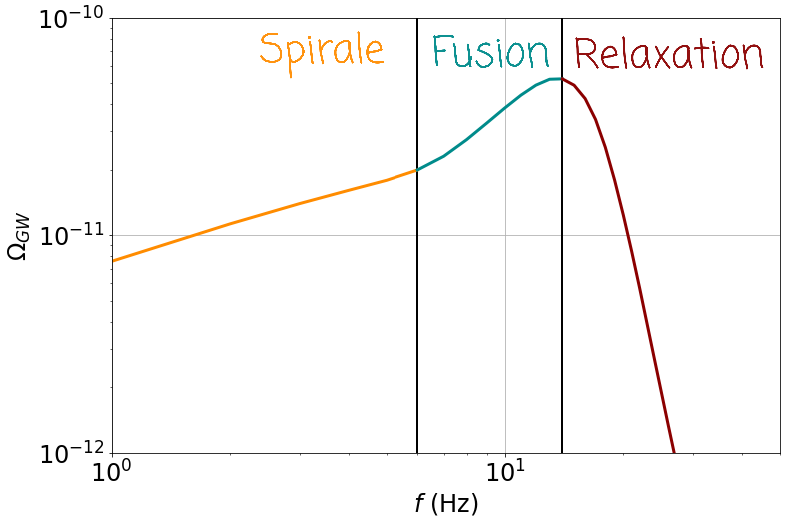
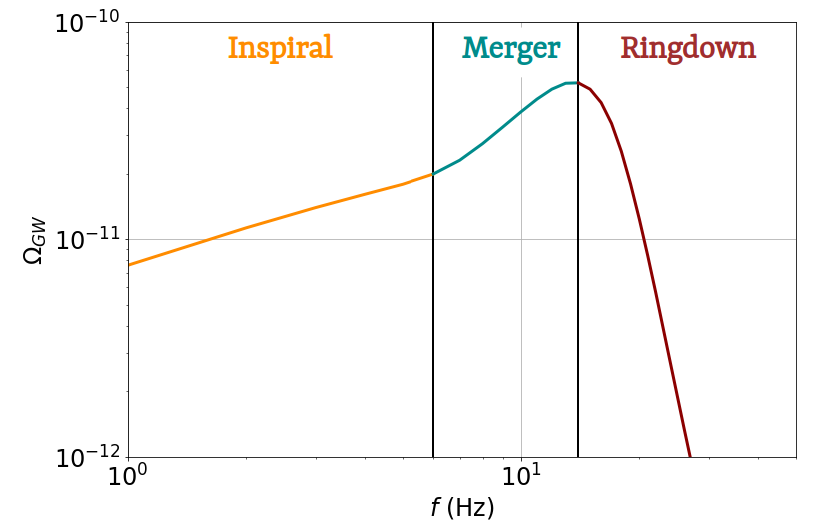
version 1

Changed region(s): [[0.0, 0.0, 1.0, 0.916], [0.5165, 0.9466, 0.6076, 0.9771], [0.6076, 0.2137, 0.638, 0.2443]]

diff --git a/_site/assets/js/lunr/lunr-store.js b/_site/assets/js/lunr/lunr-store.js
@@ -6,7 +6,7 @@ var store = [,{
     "excerpt":"This project investigates how black holes embedded in AGN disks can grow through repeated mergers, and how gas interactions — particularly gas hardening — can shape their properties. The study contrasts two models: one with gas hardening (GH), where the gas facilitates orbital decay of binaries, and one without it (no-GH), where mergers proceed solely due to gravitational wave (GW) emission.   Scientific Context: Black Hole Growth in AGN Disks   Supermassive black holes (SMBHs) at galactic centers are often surrounded by dense gaseous disks. These active galactic nuclei (AGN) can host populations of stellar-origin black holes that sink toward special regions known as migration traps. Within these traps, black holes can interact and merge, sometimes repeatedly, leading to hierarchical mergers that build up intermediate-mass black holes (IMBHs).   Key scientific goals of this work include:      Understanding the role of gas torques and orbital damping in black hole mergers.   Quantifying the impact of gas hardening on the mass and spin distribution of resulting binaries.   Comparing AGN-driven mergers with other formation channels (e.g., young star clusters, globular clusters, isolated binaries).     Gas Hardening vs. No Gas Hardening: Two Evolutionary Scenarios   Two physical models are considered:      Gas Hardening (GH): The gas surrounding binaries extracts angular momentum and energy, significantly speeding up the inspiral. This promotes multiple merger generations and efficient spin alignment.   No Gas Hardening: Mergers rely only on gravitational radiation. Fewer hierarchical events occur, and remnant spins remain isotropically distributed.     Comparing AGN Mergers to Other Astrophysical Channels   To understand whether black hole (BH) mergers occurring in AGN disks are truly distinct, the authors systematically compared their results to four other formation scenarios. This comparison was carried out using BBlack, a statistical tool that allows Bayesian inference of the contribution (or mixing fraction) of each channel based on gravitational-wave data.      Explore BBlack Tool →     What Are the Competing Formation Channels?   Besides the AGN disk scenario, four environments were modeled consistently using the same population synthesis framework (sevn) and astrophysical assumptions:      Young Star Clusters (YSC): Compact clusters of newly formed stars where dynamical interactions between massive remnants are frequent.   Globular Clusters (GC): Dense, old stellar systems that can retain black holes and facilitate repeated mergers over time.   Nuclear Star Clusters (NSC): Stellar systems surrounding supermassive black holes, similar to the centers of galaxies.   Isolated Binaries: Binary stars evolving without dynamical interactions, where black holes form and merge solely through stellar evolution and gravitational radiation.   These environments differ in density, metallicity, and dynamical conditions, which all influence the mass, spin, and rate of BH mergers.     Mass Distributions and Channel Fingerprints        The AGN disk with gas hardening (GH) stands out sharply from the other channels. In this model, black holes can undergo multiple successive mergers, leading to very high final masses — up to ~5,000 solar masses. This is well beyond the range achievable by the other channels:      Dynamical channels (YSC, GC, NSC) typically produce primary black holes up to a few hundred solar masses, with one or two mass peaks around 20–50 M☉.   Isolated binaries are more limited, with primary BHs rarely exceeding ~50 M☉ due to supernova mass loss and pair-instability constraints.   The no-GH AGN model produces a mass spectrum much more similar to NSCs or GCs, where the hierarchical chain is typically truncated after 2–3 mergers.     Quantifying the Contribution of Each Channel   Using BBlack, I analyzed 56 high-purity gravitational wave events from the LVK catalog (GWTC-3) and inferred the relative contribution of each formation channel (called mixing fractions).      The key conclusions are:      NSC and YSC channels dominate the observed population due to their ability to produce mergers in the 10–40 M☉ range, which is where most current detections lie.   The isolated binary channel is disfavored because it predicts too few systems with high spin and mass.   The AGN+GH channel, while unique in producing extremely massive systems, contributes little to the currently detectable sample — simply because those massive mergers emit at frequencies below the sensitivity range of current detectors like LIGO and Virgo.   The AGN+no-GH scenario overlaps substantially with NSCs and GCs and is thus hard to distinguish observationally.      In other words, gas hardening in AGN disks leaves a unique imprint on the mass distribution of merging black holes, but confirming its role will likely require future detectors sensitive to lower gravitational-wave frequencies (such as the Einstein Telescope or LISA).           Summary  This study highlights the critical role of gas dynamics in the evolution of black holes within AGN disks:      Gas hardening enhances the number and mass of hierarchical mergers.   It leads to high spin alignment, producing effective spin distributions peaking near 1.   The AGN+GH channel stands out for creating extremely massive black holes, offering a potential explanation for some gavitational-wave sources in the mass gap or beyond.   Next-generation detectors will be essential to test these predictions and differentiate between competing formation channels.  ","url": "https://pigouette.github.io/Pigouette.github.io/gravitational-waves/AGN_study"
   },{
     "title": "Black Holes & Gravitational Waves",
-    "excerpt":"Black Hole Formation and the Puzzle of Mass and Time   Black holes are among the most enigmatic objects in the universe. They are born from the gravitational collapse of massive stars or through the mergers of compact objects. Today, they are observed through two main channels: electromagnetic observations (e.g. X-rays, radio jets, active galactic nuclei) and gravitational-wave detections, which have opened a new window on their formation and evolution.   Stellar Evolution and the Birth of Black Holes   The formation of a black hole is tightly connected to the initial mass and metallicity (chemical composition) of the progenitor star. Metallicity influences how much mass a star loses through stellar winds during its lifetime — a key factor in determining the mass of the resulting black hole:      Low-metallicity stars lose little mass and are more likely to collapse into massive or intermediate-mass black holes.   High-metallicity stars, on the other hand, shed a significant fraction of their mass through strong winds, often resulting in lighter black holes or even neutron stars.   Metallicity also encodes cosmic time: it increases with each generation of stars as heavy elements are synthesized and dispersed by supernovae.   The first generation of stars, known as Population III (Pop III) stars, formed in a pristine, metal-free Universe, roughly 200 to 500 million years after the Big Bang, corresponding to a redshift of z ≈ 20–10. Their unique composition led to extremely massive stellar bodies (typically 100–300 M☉, possibly more), with weak stellar winds and minimal mass loss. When these stars died, many are believed to have collapsed directly into black holes with masses ranging from 100 to 1000 M☉, placing them in the category of intermediate-mass black holes. These objects are prime candidates for the seeds of future supermassive black holes.   Later generations of stars, known as Population I and II (Pop I/II) stars, formed as the Universe became progressively enriched in heavy elements from earlier stellar explosions. Pop II stars began forming around redshift z ≈ 10–6 (~500 Myr to 1 Gyr after the Big Bang), while Pop I stars dominate from z ≈ 2 to the present (the last ~10 billion years). These younger stars, with higher metallicity, exhibit stronger stellar winds and follow different evolutionary paths, generally leading to lighter black hole remnants.   An additional layer of complexity arises with very massive stars due to the pair-instability process:      Stars with helium core masses between ~64 and 135 M☉ are thought to undergo pair-instability supernovae, which lead to total disruption of the star, leaving behind no remnant black hole.   This phenomenon creates a predicted mass gap in the black hole mass spectrum, between approximately 50 and 120 M☉. Finding black holes in this range could challenge existing models of stellar evolution, particularly those involving Pop III progenitors in the early Universe.   Observational Landscape   Current observations reveal a wide variety of black holes:      Stellar-mass black holes (5–100 M☉), primarily detected via gravitational waves or X-ray binaries;   Intermediate-mass black holes (100–3.10\\(^5\\) M☉), for which evidence remains sparse and debated;   Massive black holes (3.10\\(^5\\)–10¹⁰ M☉), observed in galactic centers across the universe, even at high redshifts (z &gt; 6).          Parameter space of observed black holes from electromagnetic and gravitational-wave observations (mass vs redshift).   This landscape raises two fundamental questions:           How can such massive black holes form so early in cosmic history?  Supermassive black holes have been observed less than a billion years after the Big Bang, but standard stellar evolution models struggle to explain their rapid growth.            Why do we observe a “mass gap” in the intermediate-mass range?  While stellar-mass and supermassive black holes are well established, the population between ~100 and 10⁴ solar masses is largely uncharted. Is this due to detection limits, or does it reflect a genuine lack of formation pathways?       Addressing these questions requires new observational tools — and this is where gravitational waves play a key role.   Studies on Binary black holes formation and evolutions                                                                                                                       Binary Black holes from Globular cluster                                                    This project investigates how the internal dynamics and long-term evolution of globular clusters shape the mass, spin, and merger-rate distributions of black holes through repeated mergers. Image : Cluster Messier 15, credit: NASA, ESA                                                   Learn more                                                                                                                                                    Binary black holes from active galactic nuclei                                                    How does the presence of gas in active galactic nucleus (AGN) disks influence the growth of black holes through mergers? This study explores how gas hardening changes the mass and spin distribution of hierarchical black hole binaries. Credit : THEA, Columbia university                                                   Learn more                                                                                                                                                    Angular momentum transportation : Model comparison through gravitational wave data.                                                    Page not ready yes                                                   Learn more                                          Gravitational-Wave Observations of Black Hole Mergers   Gravitational waves (GWs) provide a direct probe of compact binary mergers, allowing us to observe black holes that would otherwise remain invisible. These signals are rich in astrophysical information and can be studied both individually and collectively.   Each binary black hole coalescence emits gravitational waves in three phases:      Inspiral: the two black holes orbit each other, gradually losing energy via gravitational radiation. This phase encodes precise information about their masses and spins.   Merger: the black holes collide and form a single, highly deformed object.   Ringdown: the remnant settles into a stable black hole, emitting GWs at characteristic frequencies (quasi-normal modes).          There are two main observables from GW data:   1. Individual Merger Events   Individual mergers are detected through matched filtering, where a bank of theoretical waveforms is compared to the detector data. This method allows us to estimate the properties of each event (mass, spin, redshift, orientation) with high accuracy. Since the first detection in 2015 (GW150914), dozens of binary black hole mergers have been observed, providing constraints on black hole populations, formation channels, and cosmology.   2. The Astrophysical Gravitational-Wave Background   In addition to isolated events, the universe is filled with the stochastic gravitational-wave background (SGWB) — the superposition of countless unresolved mergers across cosmic history. This signal cannot be detected in a single detector. Instead, it is extracted statistically via cross-correlation between detectors in a network (e.g., LIGO, Virgo, KAGRA, Einstein Telescope).          The SGWB offers a unique window into:      The merger rate history of compact binaries;   Populations that are too faint or distant to resolve individually;   Early-universe phenomena, such as the first generations of stars (Population III).   Together, these observations — from discrete signals to background noise — provide a comprehensive picture of black hole formation, growth, and distribution across space and time.  ","url": "https://pigouette.github.io/Pigouette.github.io/gravitational-waves/BBH-intro"
+    "excerpt":"Black Hole Formation and the Puzzle of Mass and Time   Black holes are among the most enigmatic objects in the universe. They are born from the gravitational collapse of massive stars or through the mergers of compact objects. Today, they are observed through two main channels: electromagnetic observations (e.g. X-rays, radio jets, active galactic nuclei) and gravitational-wave detections, which have opened a new window on their formation and evolution.   Stellar Evolution and the Birth of Black Holes   The formation of a black hole is tightly connected to the initial mass and metallicity (chemical composition) of the progenitor star. Metallicity influences how much mass a star loses through stellar winds during its lifetime — a key factor in determining the mass of the resulting black hole:      Low-metallicity stars lose little mass and are more likely to collapse into massive or intermediate-mass black holes.   High-metallicity stars, on the other hand, shed a significant fraction of their mass through strong winds, often resulting in lighter black holes or even neutron stars.   Metallicity also encodes cosmic time: it increases with each generation of stars as heavy elements are synthesized and dispersed by supernovae.   The first generation of stars, known as Population III (Pop III) stars, formed in a pristine, metal-free Universe, roughly 200 to 500 million years after the Big Bang, corresponding to a redshift of z ≈ 20–10. Their unique composition led to extremely massive stellar bodies (typically 100–300 M☉, possibly more), with weak stellar winds and minimal mass loss. When these stars died, many are believed to have collapsed directly into black holes with masses ranging from 100 to 1000 M☉, placing them in the category of intermediate-mass black holes. These objects are prime candidates for the seeds of future supermassive black holes.   Later generations of stars, known as Population I and II (Pop I/II) stars, formed as the Universe became progressively enriched in heavy elements from earlier stellar explosions. Pop II stars began forming around redshift z ≈ 10–6 (~500 Myr to 1 Gyr after the Big Bang), while Pop I stars dominate from z ≈ 2 to the present (the last ~10 billion years). These younger stars, with higher metallicity, exhibit stronger stellar winds and follow different evolutionary paths, generally leading to lighter black hole remnants.   An additional layer of complexity arises with very massive stars due to the pair-instability process:      Stars with helium core masses between ~64 and 135 M☉ are thought to undergo pair-instability supernovae, which lead to total disruption of the star, leaving behind no remnant black hole.   This phenomenon creates a predicted mass gap in the black hole mass spectrum, between approximately 50 and 120 M☉. Finding black holes in this range could challenge existing models of stellar evolution, particularly those involving Pop III progenitors in the early Universe.   Observational Landscape   Current observations reveal a wide variety of black holes:      Stellar-mass black holes (5–100 M☉), primarily detected via gravitational waves or X-ray binaries;   Intermediate-mass black holes (100–3.10\\(^5\\) M☉), for which evidence remains sparse and debated;   Massive black holes (3.10\\(^5\\)–10¹⁰ M☉), observed in galactic centers across the universe, even at high redshifts (z &gt; 6).          Parameter space of observed black holes from electromagnetic and gravitational-wave observations (mass vs redshift).   This landscape raises two fundamental questions:           How can such massive black holes form so early in cosmic history?  Supermassive black holes have been observed less than a billion years after the Big Bang, but standard stellar evolution models struggle to explain their rapid growth.            Why do we observe a “mass gap” in the intermediate-mass range?  While stellar-mass and supermassive black holes are well established, the population between ~100 and 10⁴ solar masses is largely uncharted. Is this due to detection limits, or does it reflect a genuine lack of formation pathways?       Addressing these questions requires new observational tools — and this is where gravitational waves play a key role.   Studies on Binary black holes formation and evolutions                                                                                                                       Binary Black holes from Globular cluster                                                    This project investigates how the internal dynamics and long-term evolution of globular clusters shape the mass, spin, and merger-rate distributions of black holes through repeated mergers. Image : Cluster Messier 15, credit: NASA, ESA                                                   Learn more                                                                                                                                                    Binary black holes from active galactic nuclei                                                    How does the presence of gas in active galactic nucleus (AGN) disks influence the growth of black holes through mergers? This study explores how gas hardening changes the mass and spin distribution of hierarchical black hole binaries. Credit : THEA, Columbia university                                                   Learn more                                                                                                                                                    Angular momentum transportation : Model comparison through gravitational wave data.                                                    Page not ready yes                                                   Learn more                                          Gravitational-Wave Observations of Black Hole Mergers   Gravitational waves (GWs) provide a direct probe of compact binary mergers, allowing us to observe black holes that would otherwise remain invisible. These signals are rich in astrophysical information and can be studied both individually and collectively.   Each binary black hole coalescence emits gravitational waves in three phases:      Inspiral: the two black holes orbit each other, gradually losing energy via gravitational radiation. This phase encodes precise information about their masses and spins.   Merger: the black holes collide and form a single, highly deformed object.   Ringdown: the remnant settles into a stable black hole, emitting GWs at characteristic frequencies (quasi-normal modes).          There are two main observables from GW data:   1. Individual Merger Events   Individual mergers are detected through matched filtering, where a bank of theoretical waveforms is compared to the detector data. This method allows us to estimate the properties of each event (mass, spin, redshift, orientation) with high accuracy. Since the first detection in 2015 (GW150914), dozens of binary black hole mergers have been observed, providing constraints on black hole populations, formation channels, and cosmology.   2. The Astrophysical Gravitational-Wave Background   In addition to isolated events, the universe is filled with the stochastic gravitational-wave background (SGWB) — the superposition of countless unresolved mergers across cosmic history. This signal cannot be detected in a single detector. Instead, it is extracted statistically via cross-correlation between detectors in a network (e.g., LIGO, Virgo, KAGRA, Einstein Telescope).          Typical background from a population of binary black holes with masses around 40 M☉ and redshifts of 14 ± 4. One can distinguish the different phases of the coalescence through the characteristic shape of the spectrum.   The SGWB offers a unique window into:      The merger rate history of compact binaries;   Populations that are too faint or distant to resolve individually;   Early-universe phenomena, such as the first generations of stars (Population III).   Together, these observations — from discrete signals to background noise — provide a comprehensive picture of black hole formation, growth, and distribution across space and time.   Studies related on gravitational wave backgrounds                                                                                                                       Insights about Pop III stars from binary black holes contribution to the gravitational wave background.                                                    To be written                                                   Learn more                                                                                                                                                    Impact of star formation and evolution on the gravitational wave background.                                                    Not ready yet                                                   Learn more                                                                                                                                                    Prospects of background observations with Einstein Telescope                                                    Footprints of binary black holes evolution environement on gravitational wave background in Einstein Telescope. A Princess study.                                                   Learn more                                        ","url": "https://pigouette.github.io/Pigouette.github.io/gravitational-waves/BBH-intro"
   },{
     "title": "BBlack : A Python tool for comparison between astrophysical models and gravitational wave data",
     "excerpt":"TBW  ","url": "https://pigouette.github.io/Pigouette.github.io/gravitational-waves/BBlack"

diff --git a/_site/gravitational-waves/BBH-intro.html b/_site/gravitational-waves/BBH-intro.html
@@ -520,8 +520,10 @@ While stellar-mass and supermassive black holes are well established, the popula
 <p>In addition to isolated events, the universe is filled with the <strong>stochastic gravitational-wave background (SGWB)</strong> — the superposition of countless unresolved mergers across cosmic history. This signal cannot be detected in a single detector. Instead, it is extracted statistically via <strong>cross-correlation between detectors</strong> in a network (e.g., LIGO, Virgo, KAGRA, Einstein Telescope).</p>
 
 <p align="center">
-  <img src="../assets/images/formes_waves.png" alt="BH_mass_redshift" width="600" />
+  <img src="../assets/images/exemple_omega2.png" alt="BH_mass_redshift" width="600" />
 </p>
+
+<p><em>Typical background from a population of binary black holes with masses around 40 M☉ and redshifts of 14 ± 4. One can distinguish the different phases of the coalescence through the characteristic shape of the spectrum.</em></p>
 
 <p>The SGWB offers a unique window into:</p>
 
@@ -532,6 +534,99 @@ While stellar-mass and supermassive black holes are well established, the popula
 </ul>
 
 <p>Together, these observations — from discrete signals to background noise — provide a comprehensive picture of black hole formation, growth, and distribution across space and time.</p>
+
+<h3 id="studies-related-on-gravitational-wave-backgrounds">Studies related on gravitational wave backgrounds</h3>
+
+<div class="feature__wrapper">
+
+  
+    <div class="feature__item">
+      <div class="archive__item">
+        
+          <div class="archive__item-teaser">
+            <img src="/Pigouette.github.io/assets/images/ET2CE_Res.png" alt="customizable" />
+            
+          </div>
+        
+
+        <div class="archive__item-body">
+          
+            <h2 class="archive__item-title">Insights about Pop III stars from binary black holes contribution to the gravitational wave background.</h2>
+          
+
+          
+            <div class="archive__item-excerpt">
+              <p>To be written</p>
+
+            </div>
+          
+
+          
+            <p><a href="/Pigouette.github.io/Pigouette.github.io/gravitational-waves/PopIII_bkg" class="btn btn--primary">Learn more</a></p>
+          
+        </div>
+      </div>
+    </div>
+  
+    <div class="feature__item">
+      <div class="archive__item">
+        
+          <div class="archive__item-teaser">
+            <img src="/Pigouette.github.io/assets/images/SNR_V2.png" alt="fully responsive" />
+            
+          </div>
+        
+
+        <div class="archive__item-body">
+          
+            <h2 class="archive__item-title">Impact of star formation and evolution on the gravitational wave background.</h2>
+          
+
+          
+            <div class="archive__item-excerpt">
+              <p>Not ready yet</p>
+
+            </div>
+          
+
+          
+            <p><a href="/Pigouette.github.io/Pigouette.github.io/gravitational-waves/Dynamics" class="btn btn--primary">Learn more</a></p>
+          
+        </div>
+      </div>
+    </div>
+  
+    <div class="feature__item">
+      <div class="archive__item">
+        
+          <div class="archive__item-teaser">
+            <img src="/Pigouette.github.io/assets/images/ET_channel_BBook.png" alt="customizable" />
+            
+          </div>
+        
+
+        <div class="archive__item-body">
+          
+            <h2 class="archive__item-title">Prospects of background observations with Einstein Telescope</h2>
+          
+
+          
+            <div class="archive__item-excerpt">
+              <p>Footprints of binary black holes evolution environement on gravitational wave background in Einstein Telescope. A Princess study.</p>
+
+            </div>
+          
+
+          
+            <p><a href="/Pigouette.github.io/Pigouette.github.io/gravitational-waves/Einstein_telescope_study" class="btn btn--primary">Learn more</a></p>
+          
+        </div>
+      </div>
+    </div>
+  
+
+</div>
+
 
         
       </section>

diff --git a/_pages/en/BBH-intro.md b/_pages/en/BBH-intro.md
@@ -28,6 +28,29 @@ feature_row:
     url: "/BeyondTheLab/AILab/Search_anomaly"
     btn_class: "btn--primary"
     btn_label: "Learn more"  
+
+feature_row2:
+  - image_path: /assets/images/ET2CE_Res.png
+    alt: "customizable"
+    title: "Insights about Pop III stars from binary black holes contribution to the gravitational wave background."
+    excerpt: "To be written"
+    url: "/Pigouette.github.io/gravitational-waves/PopIII_bkg"
+    btn_class: "btn--primary"
+    btn_label: "Learn more"
+  - image_path: /assets/images/SNR_V2.png #
+    alt: "fully responsive"
+    title: "Impact of star formation and evolution on the gravitational wave background."
+    excerpt: "Not ready yet"
+    url: "/Pigouette.github.io/gravitational-waves/Dynamics"
+    btn_class: "btn--primary"
+    btn_label: "Learn more"
+  - image_path: /assets/images/ET_channel_BBook.png
+    alt: "customizable"
+    title: "Prospects of background observations with Einstein Telescope"
+    excerpt: "Footprints of binary black holes evolution environment on gravitational wave background in Einstein Telescope. A Princess study."
+    url: "/Pigouette.github.io/gravitational-waves/Einstein_telescope_study"
+    btn_class: "btn--primary"
+    btn_label: "Learn more"  
 ---
 
 ## Black Hole Formation and the Puzzle of Mass and Time
@@ -106,8 +129,10 @@ Individual mergers are detected through **matched filtering**, where a bank of t
 In addition to isolated events, the universe is filled with the **stochastic gravitational-wave background (SGWB)** — the superposition of countless unresolved mergers across cosmic history. This signal cannot be detected in a single detector. Instead, it is extracted statistically via **cross-correlation between detectors** in a network (e.g., LIGO, Virgo, KAGRA, Einstein Telescope).
 
 <p align="center">
-  <img src="../assets/images/formes_waves.png" alt="BH_mass_redshift" width="600"/>
+  <img src="../assets/images/exemple_omega2.png" alt="BH_mass_redshift" width="600"/>
 </p>
+
+*Typical background from a population of binary black holes with masses around 40 M☉ and redshifts of 14 ± 4. One can distinguish the different phases of the coalescence through the characteristic shape of the spectrum.*
 
 The SGWB offers a unique window into:
 
@@ -116,3 +141,7 @@ The SGWB offers a unique window into:
 - Early-universe phenomena, such as the first generations of stars (Population III).
 
 Together, these observations — from discrete signals to background noise — provide a comprehensive picture of black hole formation, growth, and distribution across space and time.
+
+### Studies related on gravitational wave backgrounds
+{% include feature_row2 %}
+
